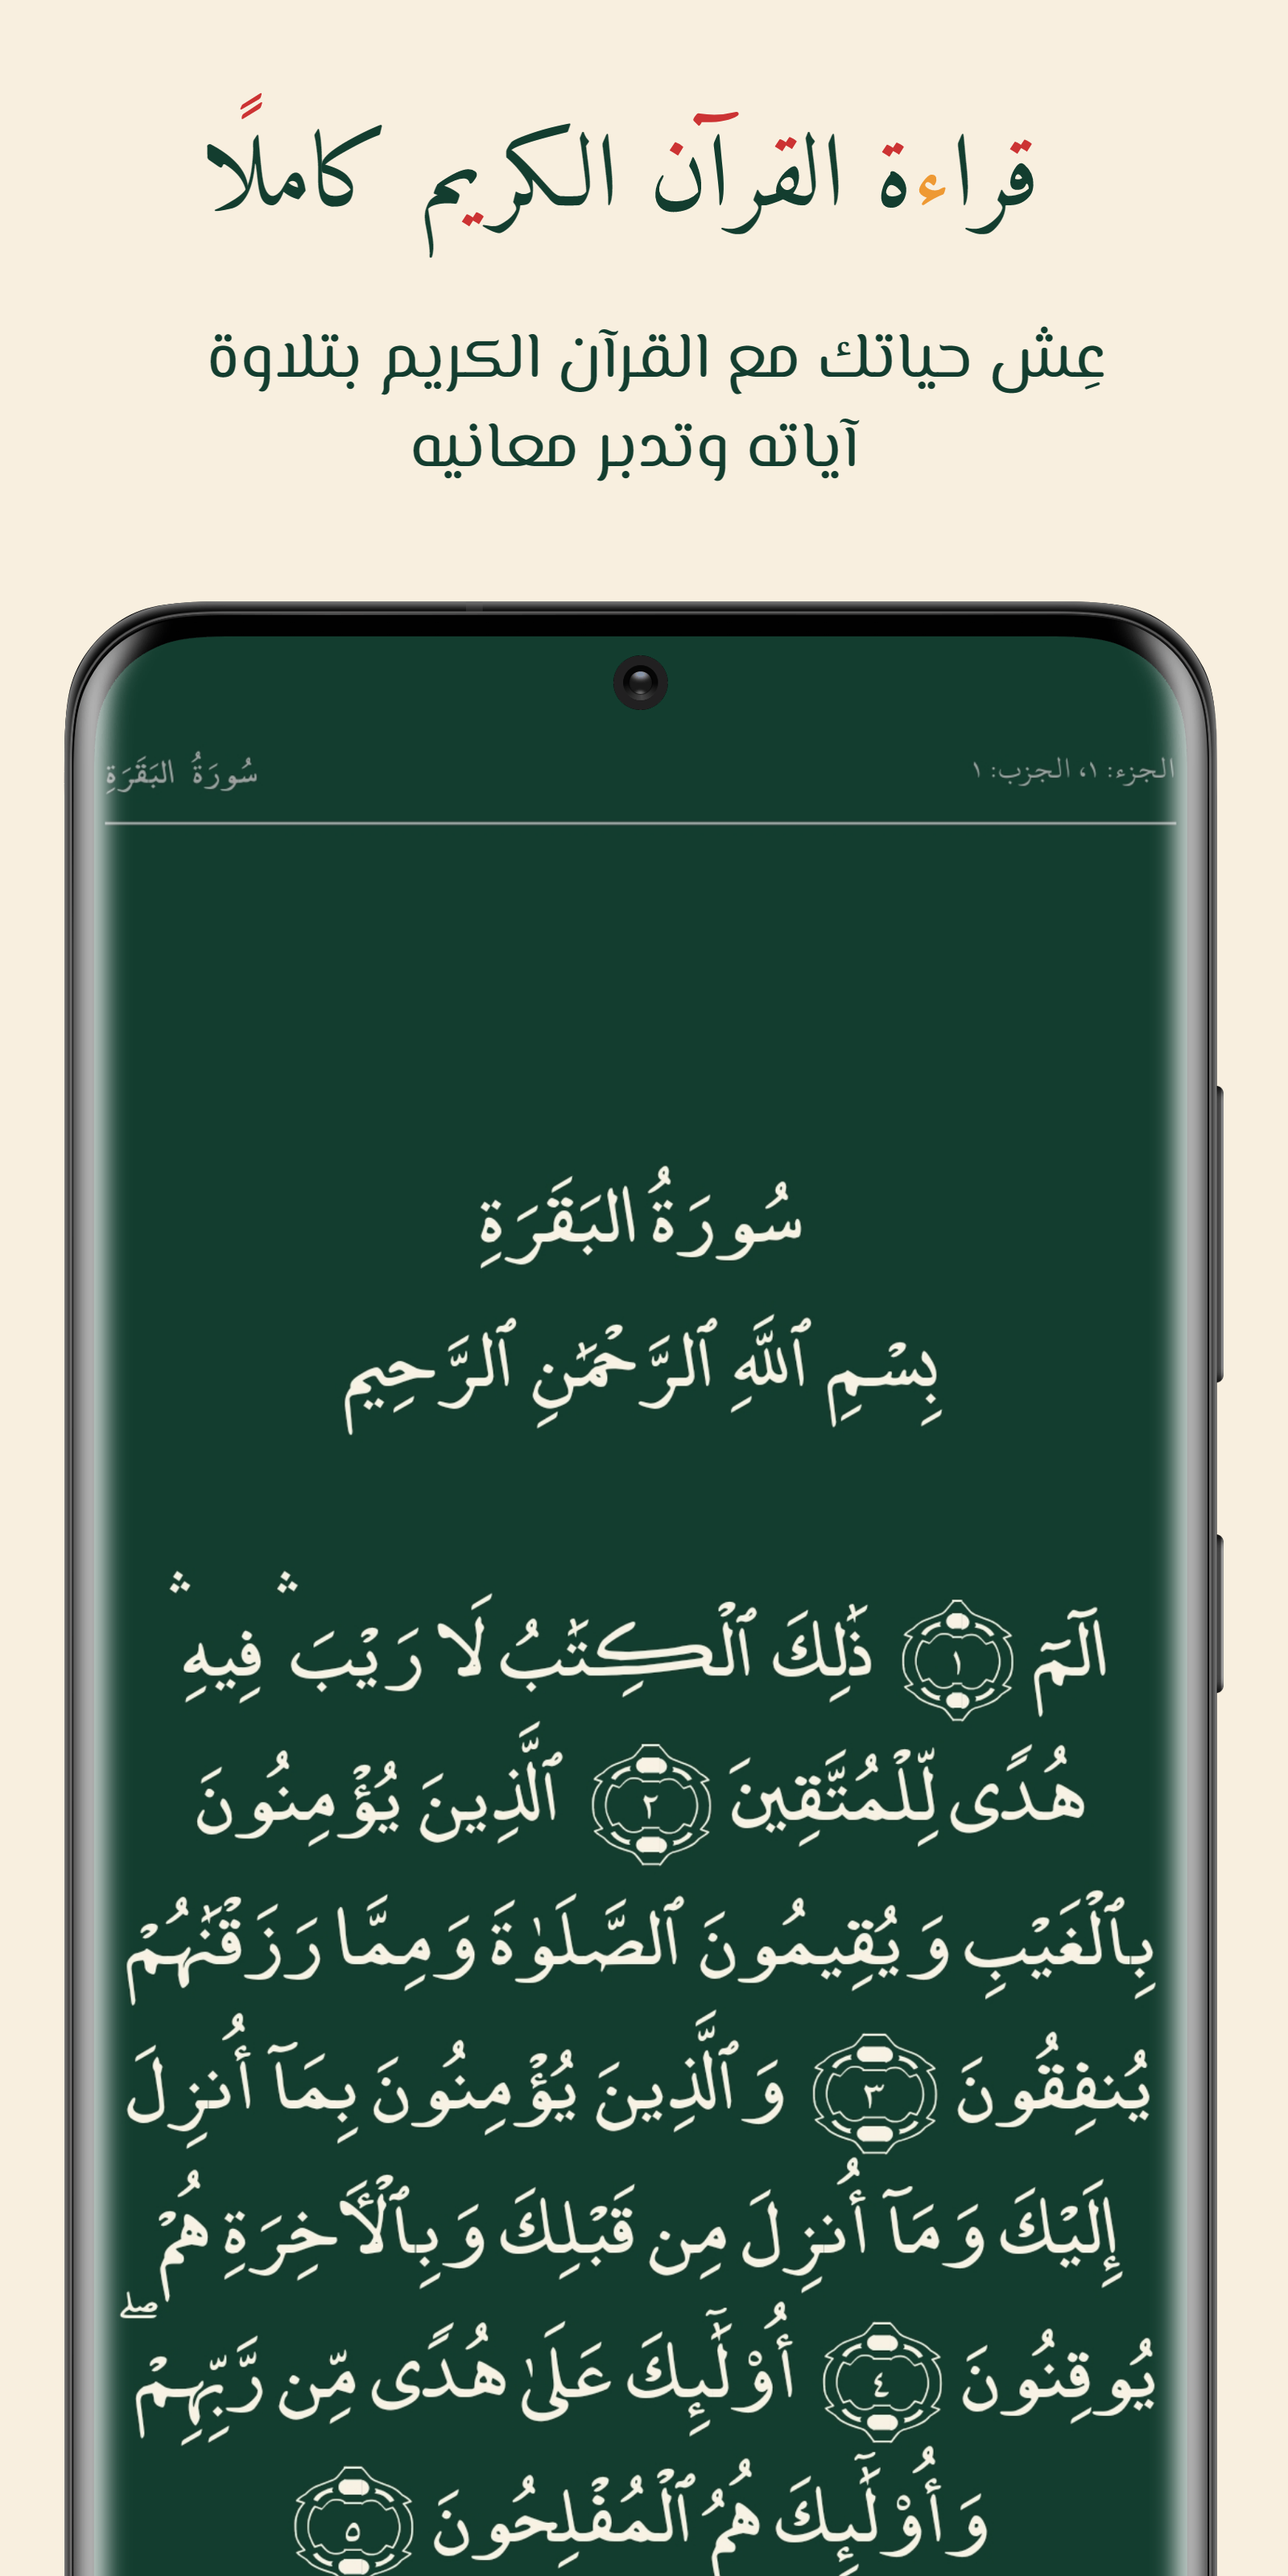
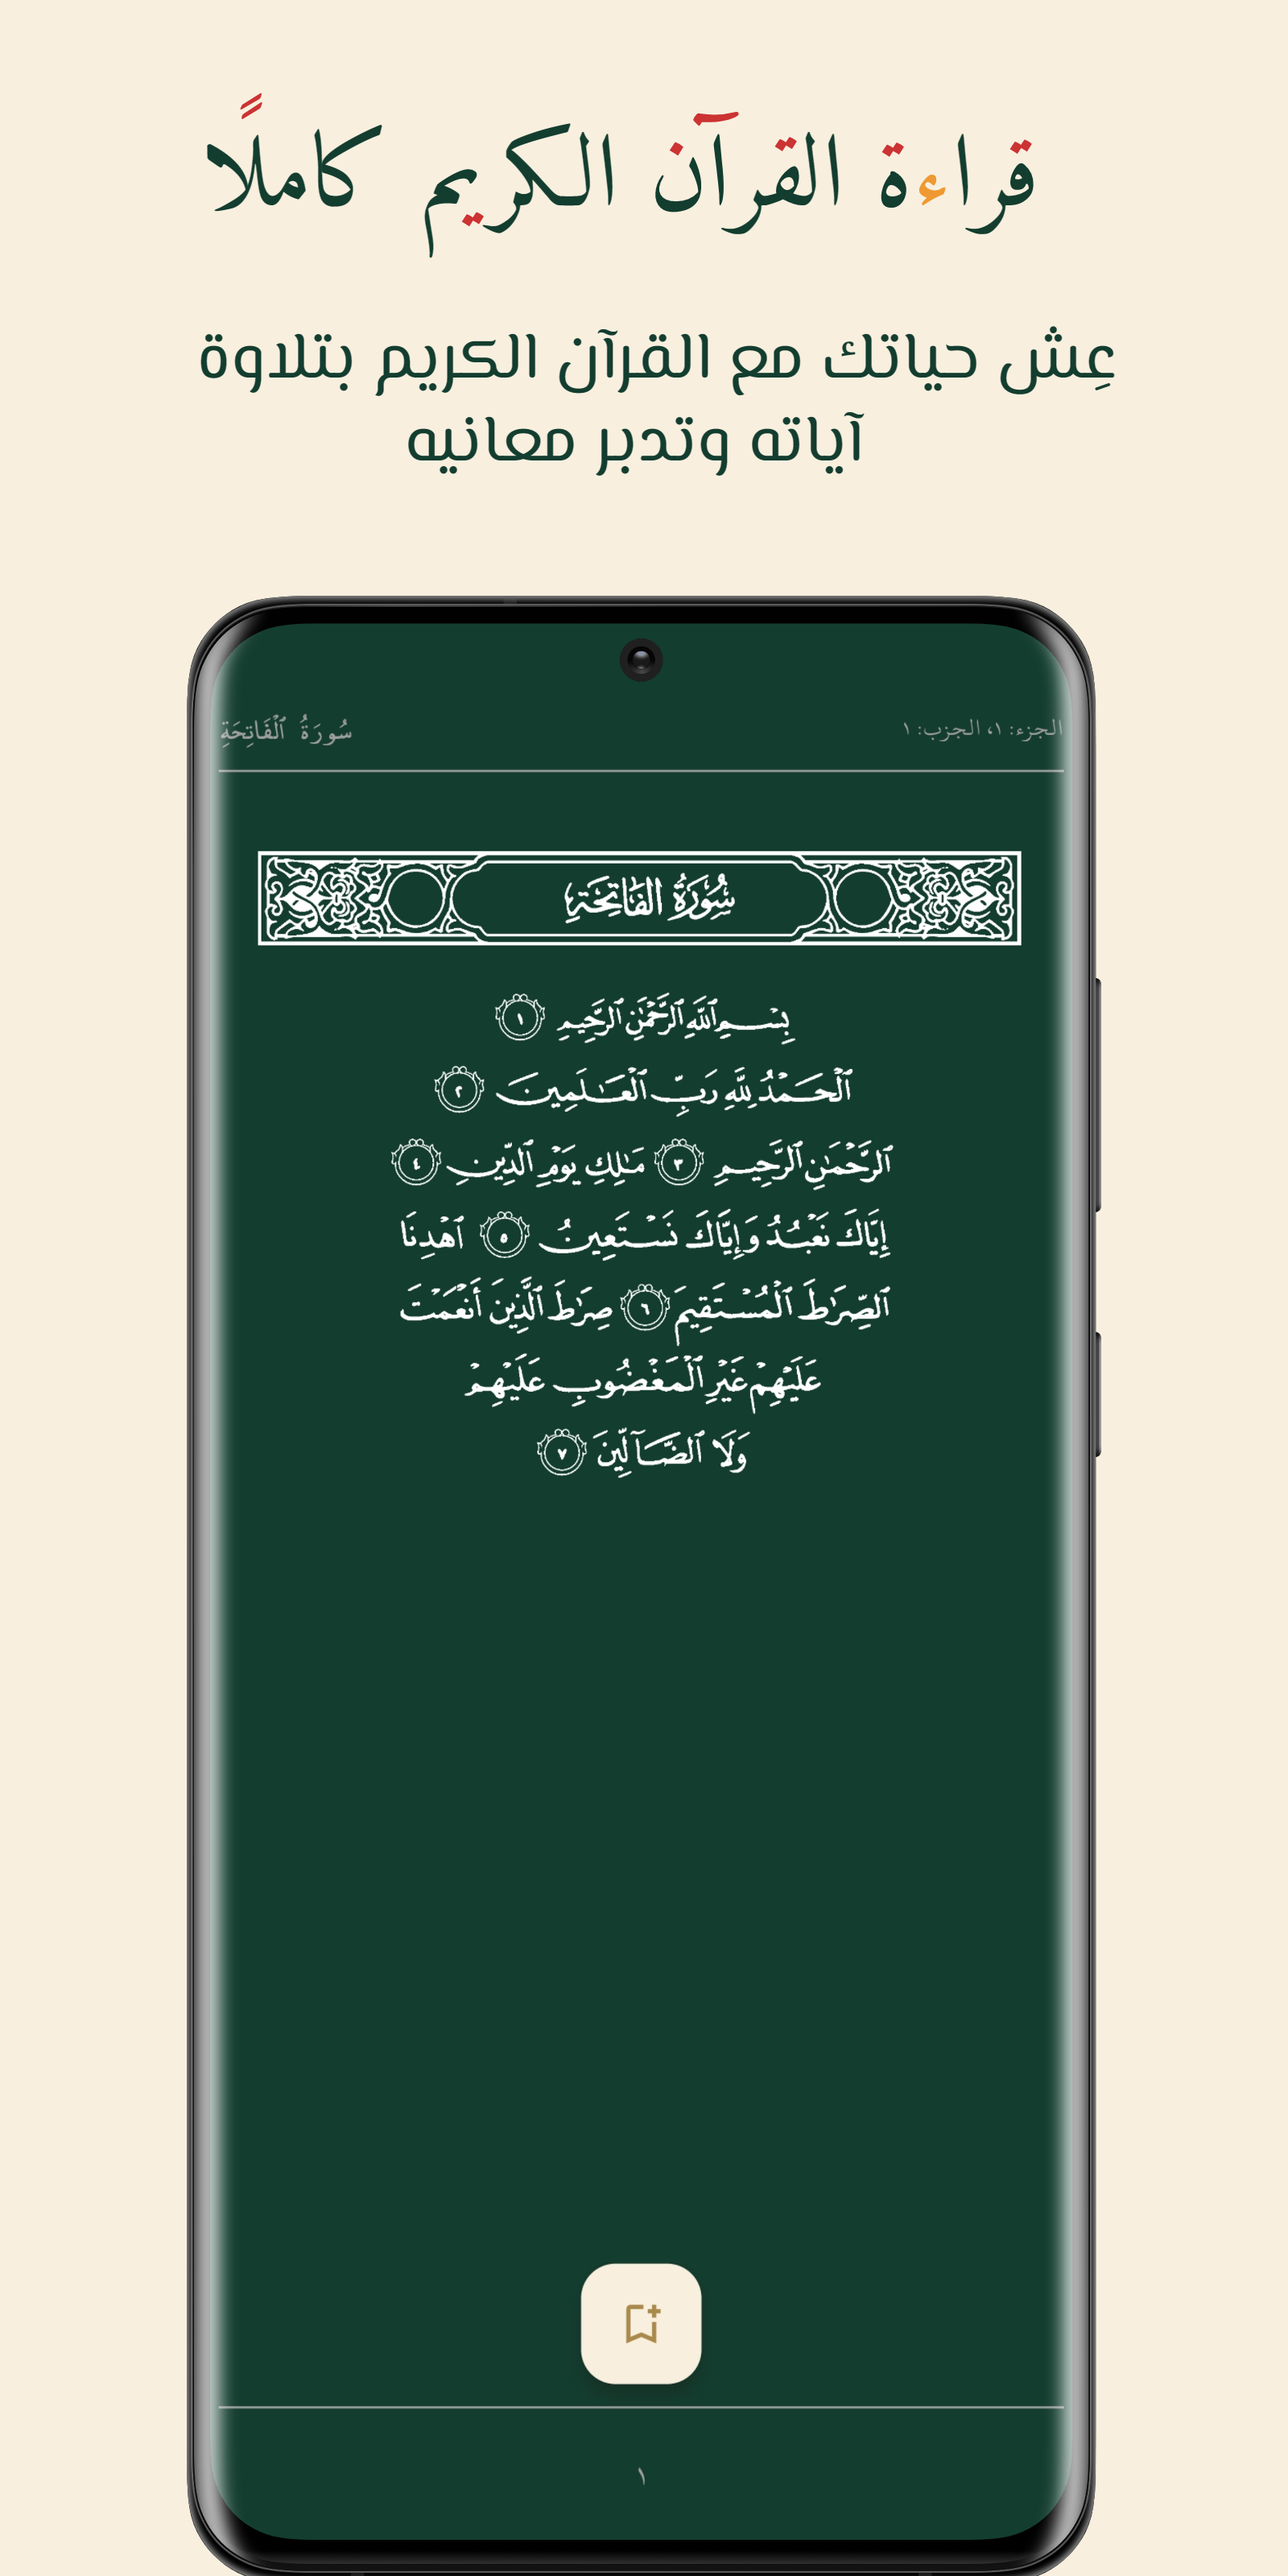
Edited Readme File

Changed region(s): [[0.0312, 0.2188, 0.9688, 1.0], [0.1562, 0.125, 0.875, 0.1875], [0.3438, 0.4062, 0.375, 0.4375]]

diff --git a/README.md b/README.md
@@ -11,9 +11,10 @@ El Muslim is your daily guide to Islamic practices and beliefs, providing a comp
 
 ## Features
 
-- Reading the Holy Quran with easy navigation between surahs and verses.
+- Reading the Holy Quran with easy navigation between surahs and verses, and the ability to bookmark pages for easy access later.
 - Collection of Forty Hadiths an-Nawawi for guidance on various aspects of Islamic life.
-- Daily supplications for morning and evening, bedtime, and other times.
+- Daily supplications for morning and evening, bedtime, and other times, as well as the ability to add custom adhkar and manage them from a dedicated list.
+- Improved experience of Quran reading for a smoother and more enjoyable experience.
 - Night mode for a customized reading experience.
 - Fully responsive and optimized for a variety of screen sizes.
 ***
@@ -25,6 +26,7 @@ El Muslim is your daily guide to Islamic practices and beliefs, providing a comp
 - Cubit from BLoC has been used as a state management library.
 - Native splash screen has been implemented. 
 - Shared preferences have been used to cache user preferences about language and theme mode.
+- Floor database has been used to save user custom adhkar.
 ***
 
 ## Screenshots
@@ -35,6 +37,7 @@ El Muslim is your daily guide to Islamic practices and beliefs, providing a comp
   <img src="assets/screenshots/03.png" alt="App Screenshots" width="300" height="auto" />
   <img src="assets/screenshots/04.png" alt="App Screenshots" width="300" height="auto" />
   <img src="assets/screenshots/05.png" alt="App Screenshots" width="300" height="auto" />
+  <img src="assets/screenshots/06.png" alt="App Screenshots" width="300" height="auto" />
 </div>
 
 ## Installation
@@ -75,13 +78,19 @@ We would like to thank the following sources for their contributions to El Musli
 - Azkar data from [Azkar Database](https://github.com/osamayy/azkar-db/blob/master/azkar.json)
 - Quran Icon from [Quran Icon](https://www.svgrepo.com/svg/52891/quran-rehal)
 - Hadith Icon from [Hadith Icon](https://iconscout.com/icon/ornament-3376032)
-- Tasbih Icon from [Hadith Icon](https://iconscout.com/icon/muslim-3)
+- Tasbih Icon from [Tasbih Icon](https://iconscout.com/icon/muslim-3)
 ***
 
 
 ## Version History
 
-- v1.0.0 - Initial release.
+# v1.1.0
+- Improved the experience of Quran reading.
+- Added quran page bookmark feature to save where the user stops reading.
+- Added a feature that allows the user to add custom adhkar and access them from a custom adhkar list (also can delete a dhikr if they no longer want it in their custom adhkar list).
+
+# v1.0.0
+- Initial release.
 ***
 
 ## Legal
